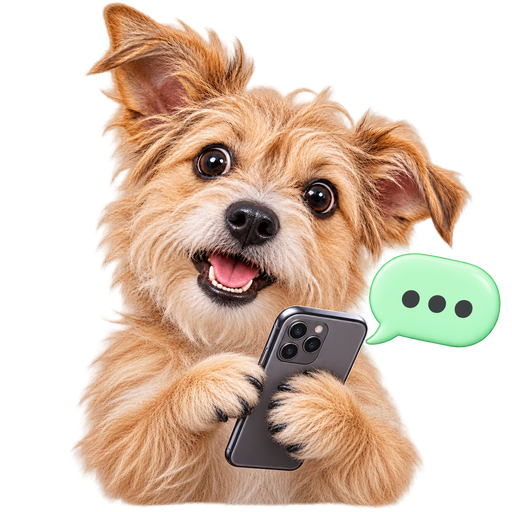
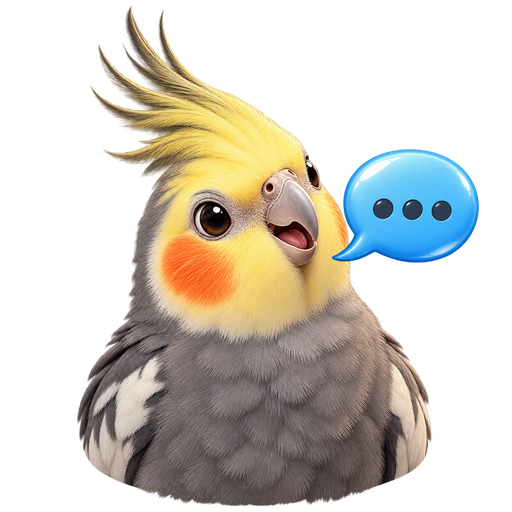
fix: give Otvetik a separate parrot mascot

diff --git a/otvetik.py b/otvetik.py
@@ -27,7 +27,7 @@ __id__ = "otvetik"
 __name__ = "Otvetik"
 __description__ = "Предлагает ответ в твоём стиле по последним 10+10 сообщениям"
 __author__ = "@nevermorelove"
-__version__ = "1.0.1"
+__version__ = "1.0.2"
 __icon__ = "OtvetikPlugin/0"
 __sdk_version__ = ">=1.4.5.0"
 

diff --git a/docs/artwork.md b/docs/artwork.md
@@ -14,11 +14,11 @@ SDK принимает `__icon__` в формате `StickerPackShortName/index`
 ## Генерация
 
 Создано встроенным инструментом `image_gen.imagegen`, с параметром `transparent_background=true`.
-Референс внешности и стиля: `../pyosik/docs/pyosik-mascot.png` из соседнего проекта Pyosik.
+Персонаж Otvetik: попугай-корелла с голубым пузырём ответа. Картинка создана с нуля, без изображения-референса.
 WebP подготовлен уменьшением PNG, без изменения содержания картинки.
 
 Промпт:
 
 ```text
-Create a NEW raster mascot sticker for the Telegram plugin Otvetik, an assistant that suggests a written reply in its owner's style. The attached image is a reference for the dog's appearance, cutout quality and photographic sticker style only. Keep this same adorable scruffy sandy tan terrier with lively dark eyes, one ear upright and the other floppy. Make a distinct Otvetik variant: the dog happily holds a modern smartphone in its front paws, as if composing a message. Beside its head, a single simple mint-green speech bubble with three dark typing dots, large and clear. Chest-up close composition, dog and phone form one compact recognizable silhouette suitable for a tiny plugin icon. Realistic soft fur with a charming meme sticker expression, clean well-defined edges, soft studio light. Square 1024x1024 composition with a small transparent safety margin on every side and no cropping of ears. Actual transparent alpha background, no scenery or rectangular backing, no cast shadow. No microphone. No words, no letters, no app logos, no watermark. Focus on the dog's face and the reply bubble, avoid extra objects or small decorative details.
+Use case: stylized-concept. Asset type: a brand-new mascot sticker and tiny Telegram plugin icon for Otvetik, a tool that suggests a reply in its owner's writing style. Create one charming expressive cockatiel parrot with soft slate-grey feathers, a bright pale-yellow face, orange cheek patches, a lifted crest and an alert cheeky expression, head tilted slightly as if about to speak. Close head-and-chest portrait in a compact centered silhouette. A single glossy sky-blue speech bubble with three dark typing dots sits close beside the bird's beak; make the bubble and bird face both readable at 64px. Warm realistic feather detail with a playful premium photographic meme-sticker feel, soft studio light. Visually distinct character with no reference image. Square composition, keep the entire crest and bubble inside frame with a clear transparent safety margin. Real transparent alpha background, no scenery, no rectangular backing, no shadow under the character. No dog, no mammal, no phone, no microphone, no keyboard, no clothing, no text, no letters, no logo, no watermark, no extra decorative objects. One clean finished sticker, not a grid or mockup.
 ```

diff --git a/README.md b/README.md
@@ -1,6 +1,6 @@
 # Otvetik
 
-<img src="docs/otvetik-mascot.png" alt="Пёсик Otvetik с телефоном и пузырём ответа" width="240">
+<img src="docs/otvetik-mascot.png" alt="Попугай Otvetik с голубым пузырём ответа" width="240">
 
 Предлагает ответ в твоём стиле прямо в личном диалоге AyuGram или exteraGram.
 Берёт до 10 твоих и 10 сообщений собеседника, обращается к твоей модели и вставляет результат в поле ввода.
